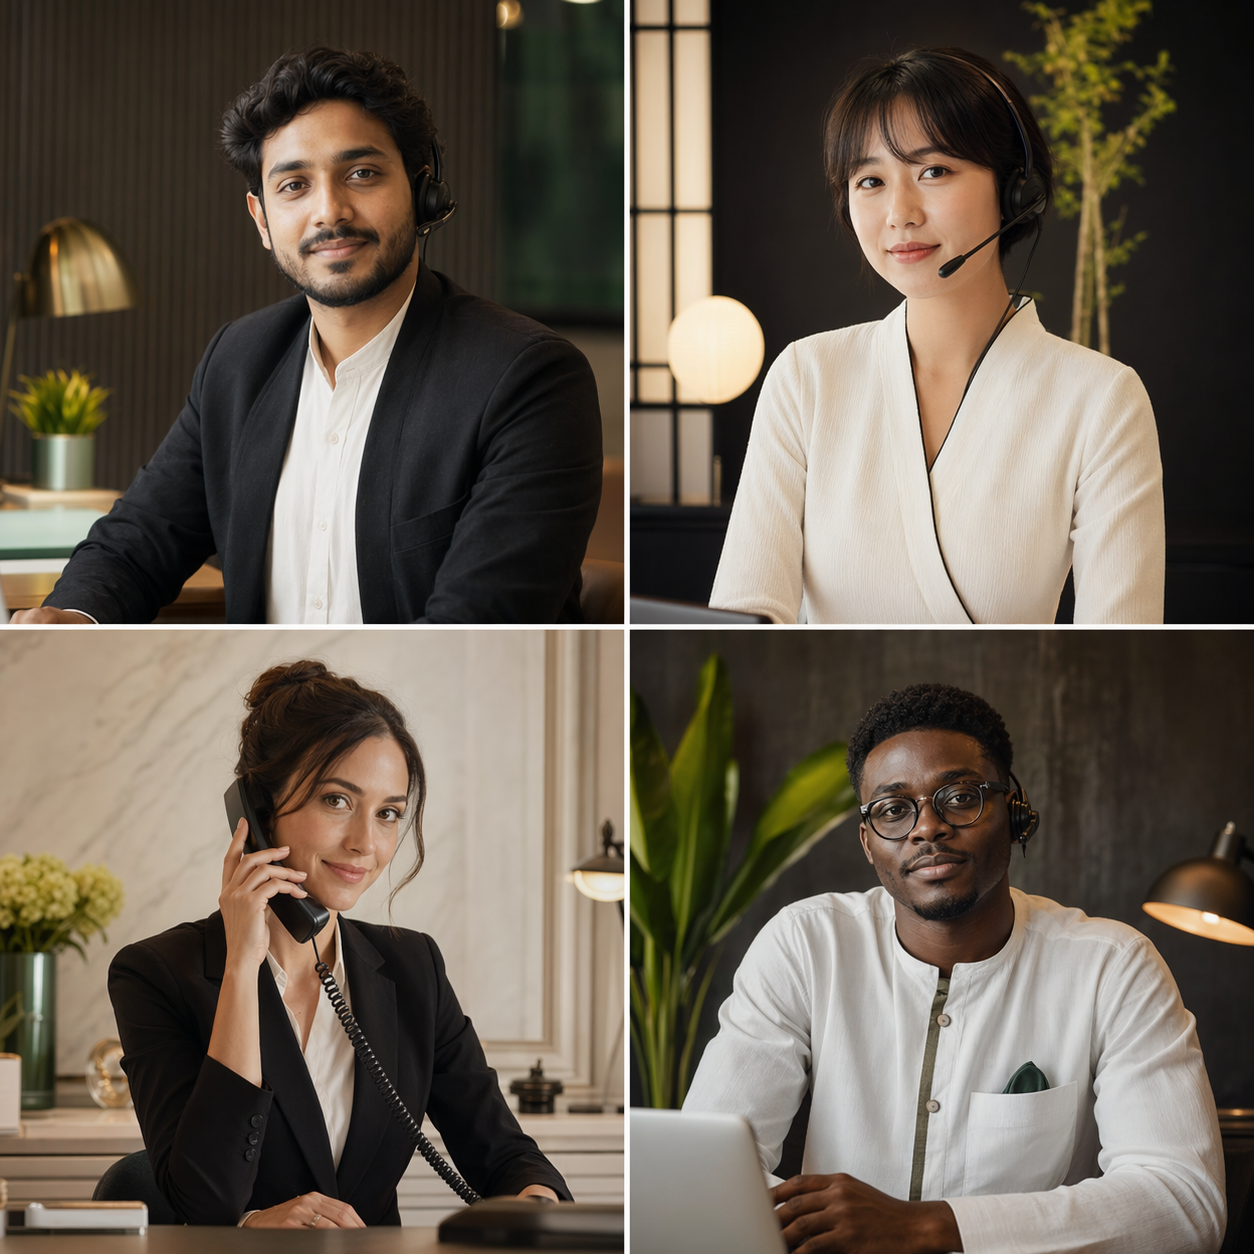
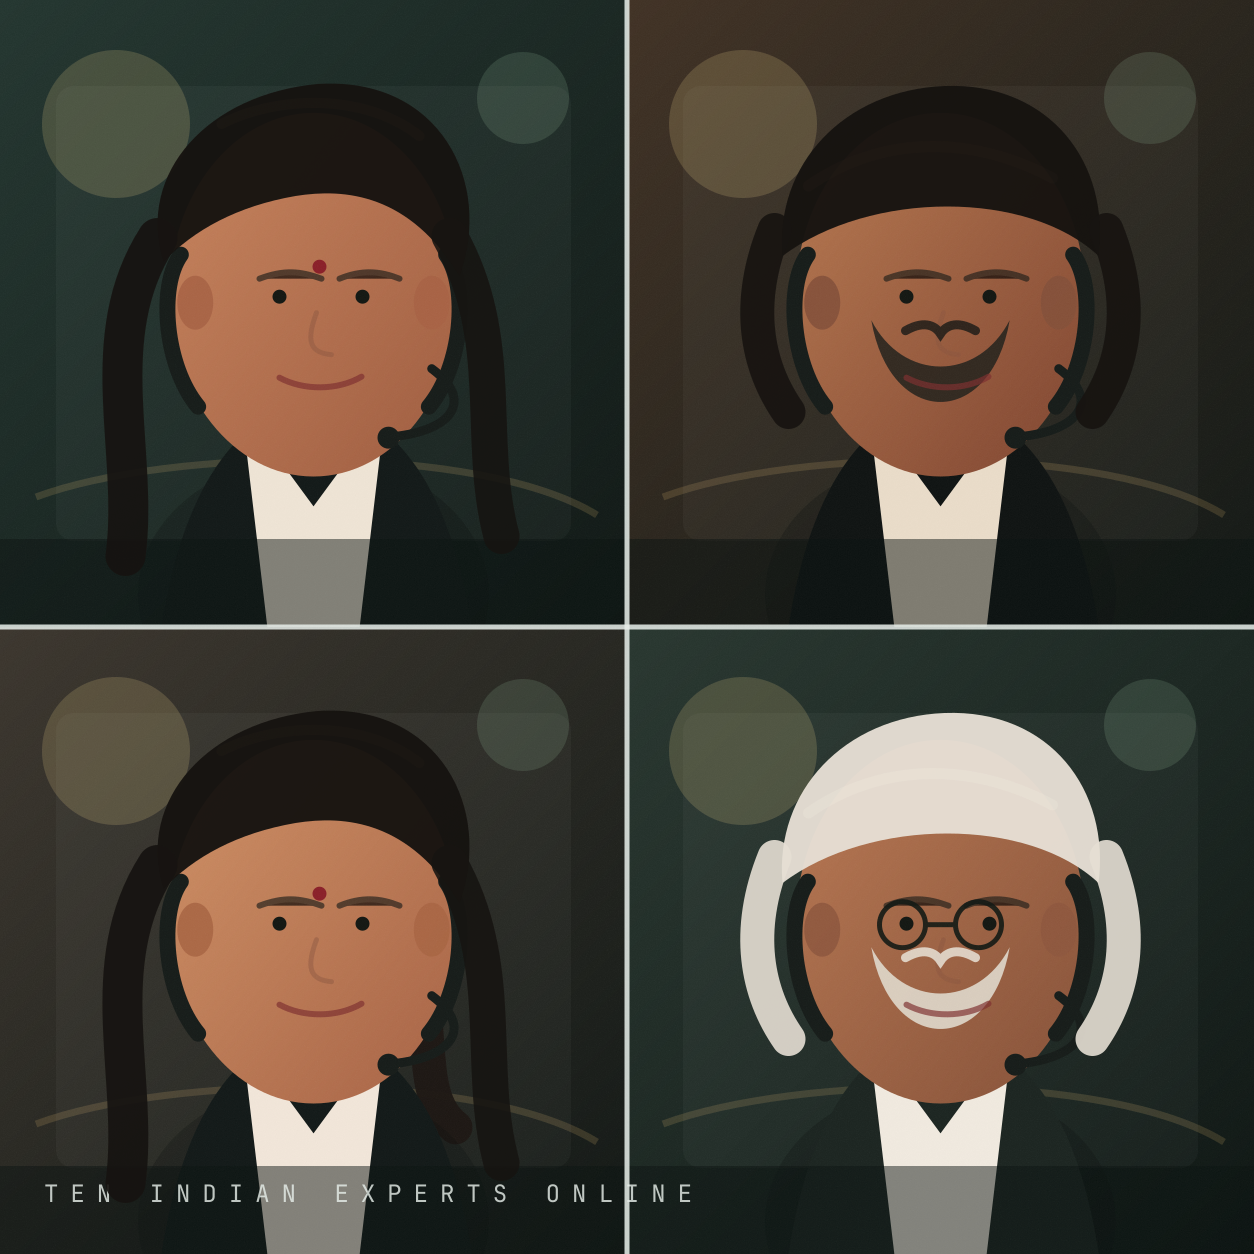
Align TripZ desk roster grid

diff --git a/src/app/page.js b/src/app/page.js
@@ -494,17 +494,17 @@ function Desk() {
             onDark
           />
         </Reveal>
-        <div className={cn(splitGrid, "lg:items-start")}>
+        <div className={cn(splitGrid, "lg:items-stretch")}>
           <ResponsiveImage
             image={visualAssets.operatorRoster}
-            className="aspect-square w-full"
+            className="aspect-square w-full min-[1152px]:h-full min-[1152px]:min-h-[44rem] min-[1152px]:aspect-auto"
             sizes="(max-width: 1024px) 100vw, 36vw"
             overlay
           />
-          <StaggerGroup className={cn(cardGrid, "bg-white/10")}>
+          <StaggerGroup className="grid grid-cols-1 bg-white/10 sm:grid-cols-2 min-[1152px]:auto-rows-fr">
             {desk.map((agent) => (
-              <StaggerItem key={agent.initials} className="bg-ink p-6 ring-1 ring-white/10 sm:p-7">
-                <article>
+              <StaggerItem key={agent.initials} className="flex bg-ink p-6 ring-1 ring-white/10 sm:p-7">
+                <article className="flex h-full min-h-[22rem] flex-col">
                   <span className="inline-flex size-2 rounded-full bg-accent-live" aria-label="Online" />
                   <div className="mt-5 flex items-center gap-3">
                     <span className="inline-flex size-10 items-center justify-center rounded-full bg-white text-xs font-bold text-ink">
@@ -518,7 +518,7 @@ function Desk() {
                   <blockquote className="mt-6 text-balance font-serif text-2xl italic leading-tight text-white">
                     &ldquo;{agent.quote}&rdquo;
                   </blockquote>
-                  <div className="mt-8 flex justify-between gap-4 border-t border-white/10 pt-4 text-sm text-white/55">
+                  <div className="mt-auto flex justify-between gap-4 border-t border-white/10 pt-4 text-sm text-white/55">
                     <span>
                       <b className="text-white">{agent.tenure}</b> · tenure
                     </span>
